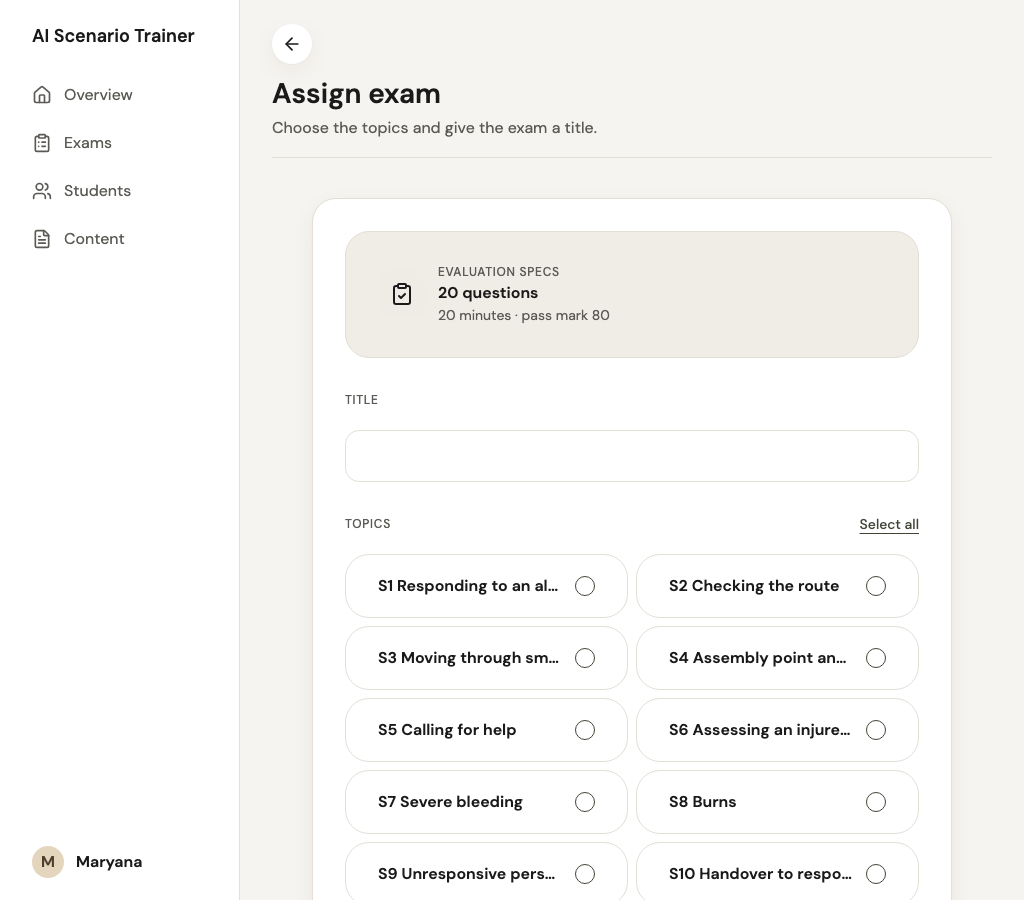
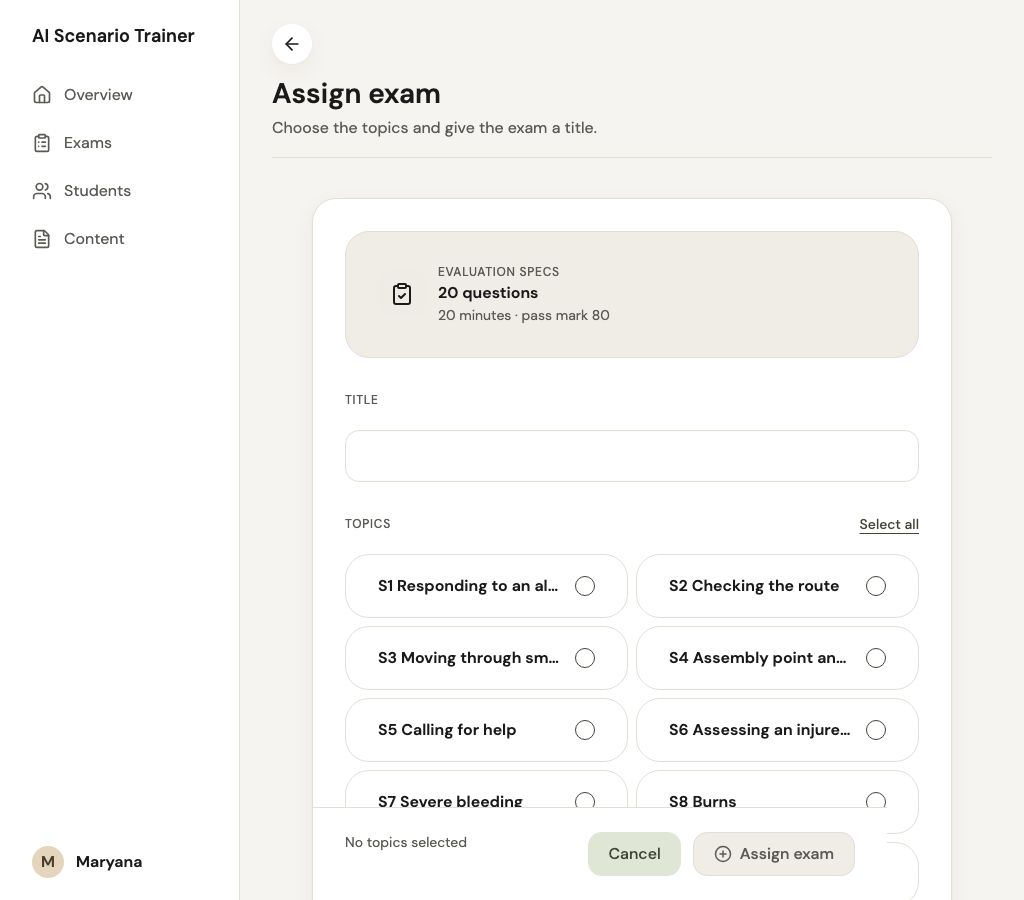
feat: preview frame scrolls inside a fixed height, row focus ring, extremes checks, step 7 docs and pictures

Changed region(s): [[0.5625, 0.9022, 0.8438, 0.9956], [0.3438, 0.9333, 0.5312, 0.9956]]

diff --git a/e2e/visual/extremes.spec.ts b/e2e/visual/extremes.spec.ts
@@ -1,0 +1,154 @@
+import { expect, test } from "@playwright/test";
+import type { Page } from "@playwright/test";
+import { prepare } from "./routes";
+
+/** Long names, long titles and 200 students (a test dataset that exists only here), DESIGN.md: Responsive instructor, step 7. */
+test.use({ reducedMotion: "reduce" });
+test.setTimeout(90_000);
+
+const LONG = "Alexandria-Wilhelmina Konstantinopolous-Featherstonehaugh";
+
+/** 200 local student accounts with long names, added to the signed-in instructor's browser. */
+async function withStudents(page: Page, count: number) {
+  await page.addInitScript(
+    ([n, long]) => {
+      const raw = localStorage.getItem("ast.auth.v1");
+      if (!raw) return;
+      const state = JSON.parse(raw);
+      if (state.value.accounts.length > 1) return;
+      for (let i = 0; i < Number(n); i++) {
+        state.value.accounts.push({
+          name: i % 3 === 0 ? `${long} ${i}` : `Student ${String(i).padStart(3, "0")}`,
+          email: `student${i}@example.org`,
+          role: "student",
+          createdAt: 2 + i,
+          onboardingDone: true,
+        });
+      }
+      localStorage.setItem("ast.auth.v1", JSON.stringify(state));
+    },
+    [String(count), LONG],
+  );
+}
+
+test.describe("200 students", () => {
+  for (const width of [1024, 1280, 1920]) {
+    test(`the Students table at ${width}px: no overflow, long names cut, sticky header`, async ({
+      page,
+    }) => {
+      await page.setViewportSize({ width, height: 900 });
+      await prepare(page, "instructor");
+      await withStudents(page, 200);
+      await page.goto("/instructor/students");
+      await page.locator("[data-students-table]").waitFor();
+      await expect(page.locator("[data-student-count]")).toContainText(/2\d\d students/);
+      const over = await page.evaluate(
+        () => document.documentElement.scrollWidth > document.documentElement.clientWidth,
+      );
+      expect(over).toBe(false);
+      const cut = await page.evaluate(() => {
+        const names = Array.from(
+          document.querySelectorAll<HTMLElement>("[data-table-link] span.truncate"),
+        );
+        const long = names.find((el) => el.textContent!.startsWith("Alexandria"));
+        if (!long) return null;
+        return {
+          scroll: long.scrollWidth,
+          client: long.clientWidth,
+          ellipsis: getComputedStyle(long).textOverflow,
+        };
+      });
+      expect(cut).not.toBeNull();
+      expect(cut!.ellipsis).toBe("ellipsis");
+      // the header row stays at the top of the window while the rows scroll under it
+      await page.mouse.wheel(0, 2000);
+      await page.waitForTimeout(300);
+      const th = await page.locator("[data-students-table] thead th").first().boundingBox();
+      expect(th!.y).toBeGreaterThanOrEqual(-1);
+      expect(th!.y).toBeLessThan(40);
+      const rows = await page.locator("[data-table-row]").count();
+      expect(rows).toBeGreaterThan(190);
+    });
+  }
+
+  test("the phone list with 200 students keeps its width at 430px", async ({ page }) => {
+    await page.setViewportSize({ width: 430, height: 900 });
+    await prepare(page, "instructor");
+    await withStudents(page, 200);
+    await page.goto("/instructor/students");
+    await page.locator("[data-student]").first().waitFor();
+    const over = await page.evaluate(
+      () => document.documentElement.scrollWidth > document.documentElement.clientWidth,
+    );
+    expect(over).toBe(false);
+  });
+
+  test("sorting 200 rows by name keeps the table intact", async ({ page }) => {
+    await page.setViewportSize({ width: 1280, height: 900 });
+    await prepare(page, "instructor");
+    await withStudents(page, 200);
+    await page.goto("/instructor/students");
+    await page.locator("[data-students-table]").waitFor();
+    await page
+      .locator("[data-students-table] thead th", { hasText: "STUDENT" })
+      .getByRole("button")
+      .click();
+    const names = (
+      await page.locator('[data-students-table] tbody th[scope="row"]').allInnerTexts()
+    ).map((text) => text.split("\n").pop()!.trim());
+    // the browser's own collation, the same one the table sorts with
+    const sorted = await page.evaluate(
+      (list) => [...list].sort((a, b) => a.localeCompare(b)),
+      names,
+    );
+    const at = names.findIndex((n, i) => n !== sorted[i]);
+    expect(
+      at < 0
+        ? "same"
+        : `${at}: ${JSON.stringify(names.slice(at, at + 3))} vs ${JSON.stringify(sorted.slice(at, at + 3))}`,
+    ).toBe("same");
+  });
+});
+
+test("a long exam title and a long topic name do not break the exam detail at 1280px", async ({
+  page,
+}) => {
+  await page.setViewportSize({ width: 1280, height: 900 });
+  await prepare(page, "instructor");
+  await page.addInitScript(
+    (title) => {
+      if (localStorage.getItem("ast.group-exams.v1")) return;
+      localStorage.setItem(
+        "ast.group-exams.v1",
+        JSON.stringify({
+          schema: 6,
+          value: [
+            {
+              id: "grp-long",
+              title,
+              topicIds: ["S1", "S2", "S3", "S4", "S5", "S6"],
+              groupIds: ["rescue-team"],
+              attemptsAllowed: 3,
+              questionCount: 20,
+              timeLimit: 20,
+              passMark: 80,
+              deadline: "2026-11-10",
+              createdAt: 1,
+              createdBy: "Instructor",
+            },
+          ],
+        }),
+      );
+    },
+    `Final comprehensive assessment of evacuation, first aid, communication and coordination ${"in a crisis ".repeat(6)}`,
+  );
+  for (const path of ["/instructor/exams", "/instructor/exams/grp-long"]) {
+    await page.goto(path);
+    await page.locator("main h1").waitFor();
+    await page.waitForTimeout(300);
+    const over = await page.evaluate(
+      () => document.documentElement.scrollWidth > document.documentElement.clientWidth,
+    );
+    expect(over, path).toBe(false);
+  }
+});

diff --git a/e2e/visual/desktop-screens.spec.ts b/e2e/visual/desktop-screens.spec.ts
@@ -273,6 +273,89 @@ for (const width of [1024, 1280, 1440, 1920]) {
   });
 }
 
+for (const width of [1100, 1600]) {
+  test(`intermediate widths, ${width}px`, async ({ page }) => {
+    await page.setViewportSize({ width, height: 900 });
+    await prepare(page, "instructor");
+    for (const [name, path, ready] of [
+      ["overview", "/instructor", "[data-weakest-topic]"],
+      ["exams", "/instructor/exams", "[data-exam-card]"],
+      ["exam-detail", "/instructor/exams/seed-active", "[data-tried]"],
+      ["students", "/instructor/students", "[data-students-table]"],
+      ["student-detail", "/instructor/students/stu-02", "[data-student-header]"],
+      ["course", "/instructor/content/course", "[data-built-in]"],
+    ] as const) {
+      await page.goto(path);
+      await page.locator(ready).first().waitFor();
+      await page.waitForTimeout(300);
+      await page.screenshot({
+        path: out(`instructor-width-${name}`, width),
+        animations: "disabled",
+      });
+    }
+  });
+}
+
+for (const width of [1280, 1920]) {
+  test(`focus, sticky footer and docked sheet, ${width}px`, async ({ page }) => {
+    await page.setViewportSize({ width, height: 900 });
+    await prepare(page, "instructor");
+    await page.goto("/instructor/exams");
+    await page.locator("[data-exam-card]").first().waitFor();
+    await page.locator("[data-exam-card]").first().focus();
+    await page.keyboard.press("Shift+Tab");
+    await page.keyboard.press("Tab");
+    await page.waitForTimeout(300);
+    await page.screenshot({ path: out("instructor-focus-card", width), animations: "disabled" });
+    await page.goto("/instructor/students");
+    await page.locator("[data-table-link]").first().waitFor();
+    await page.locator("[data-table-link]").nth(1).focus();
+    await page.keyboard.press("Shift+Tab");
+    await page.keyboard.press("Tab");
+    await page.waitForTimeout(300);
+    await page.screenshot({ path: out("instructor-focus-row", width), animations: "disabled" });
+    await page.locator("[data-side-nav] nav a", { hasText: "Exams" }).focus();
+    await page.keyboard.press("Shift+Tab");
+    await page.keyboard.press("Tab");
+    await page.waitForTimeout(300);
+    await page.screenshot({ path: out("instructor-focus-sidenav", width), animations: "disabled" });
+    await page.goto("/instructor/exams/new");
+    await page.getByLabel("Exam title").fill("Evacuation basics");
+    await page.getByText("S1 Responding to an alarm", { exact: true }).click();
+    await page.getByText("S3 Moving through smoke", { exact: true }).click();
+    await page.locator("[data-card-footer]").getByRole("button", { name: "Cancel" }).click();
+    await page.getByRole("dialog").waitFor();
+    await page.keyboard.press("Tab");
+    await page.waitForTimeout(300);
+    await page.screenshot({ path: out("instructor-focus-dialog", width), animations: "disabled" });
+    await page.keyboard.press("Escape");
+    await page.mouse.wheel(0, 300);
+    await page.waitForTimeout(300);
+    await page.screenshot({
+      path: out("instructor-assign-sticky-footer", width),
+      animations: "disabled",
+    });
+    await page.goto("/instructor/content/import");
+    await page.getByRole("button", { name: "Try an example" }).click();
+    await page.getByRole("button", { name: /^Import/ }).click();
+    await page.getByRole("heading", { name: "Draft is ready" }).waitFor({ timeout: 20000 });
+    await page.getByRole("button", { name: "Open draft" }).click();
+    await page.locator("[data-tab-bar]").waitFor();
+    await page.goto(page.url().replace(/\?.*$/, "") + "/preview/quiz");
+    const frame = page.locator("[data-phone-frame]");
+    await frame.waitFor();
+    await page.waitForTimeout(500);
+    await frame.getByText("Find the two nearest exits").click();
+    await frame.getByRole("button", { name: "Check" }).click();
+    await page.locator(".bottom-sheet").first().waitFor();
+    await page.waitForTimeout(500);
+    await page.screenshot({
+      path: out("instructor-preview-feedback-sheet", width),
+      animations: "disabled",
+    });
+  });
+}
+
 test.describe("dialog and notice at 1280px", () => {
   test.use({ viewport: { width: 1280, height: 900 } });
   test("dialog and floating notice", async ({ page }) => {

diff --git a/components/PreviewFrame/PreviewFrame.tsx b/components/PreviewFrame/PreviewFrame.tsx
@@ -17,11 +17,14 @@ export function PreviewFrame({ children }: { children: ReactNode }) {
     <FrameBarContext.Provider value={slot}>
       <div
         data-phone-frame
-        className="contents idesk:mx-auto idesk:block idesk:w-full idesk:max-w-[430px] idesk:overflow-clip idesk:rounded-[24px] idesk:border idesk:border-selectable-stroke idesk:bg-bg idesk:px-4 idesk:pt-6 idesk:min-h-[720px] idesk:transform-gpu idesk:shadow-(--card-shadow) idesk:[--gutter:1rem]"
+        className="contents idesk:mx-auto idesk:flex idesk:h-[calc(100dvh-7.5rem)] idesk:min-h-[640px] idesk:w-full idesk:max-w-[430px] idesk:flex-col idesk:overflow-clip idesk:rounded-[24px] idesk:border idesk:border-selectable-stroke idesk:bg-bg idesk:transform-gpu idesk:shadow-(--card-shadow) idesk:[--gutter:1rem]"
       >
-        {children}
+        {/* the screen scrolls inside the frame like on a phone; the pinned bar stays under it */}
+        <div className="contents desk:block desk:min-h-0 desk:flex-1 desk:overflow-y-auto desk:px-4 desk:pt-6 desk:pb-4">
+          {children}
+        </div>
         {/* plain `desk:` here: the instructor variant is switched off inside the frame */}
-        <div ref={setSlot} data-frame-bar className="-mx-4 hidden desk:block desk:empty:h-4" />
+        <div ref={setSlot} data-frame-bar className="hidden desk:block desk:empty:hidden" />
       </div>
     </FrameBarContext.Provider>
   );

diff --git a/components/DataTable/DataTable.tsx b/components/DataTable/DataTable.tsx
@@ -143,7 +143,7 @@ export function DataTable<T extends TableRow>({
             <tr
               key={row.id}
               data-table-row={row.id}
-              className={`relative h-16 ${row.href ? "hover:bg-bg has-[a:focus-visible]:outline-2 has-[a:focus-visible]:-outline-offset-2 has-[a:focus-visible]:outline-primary" : ""}`}
+              className={`relative h-16 ${row.href ? "hover:bg-bg has-[a:focus-visible]:outline-2 has-[a:focus-visible]:-outline-offset-2 has-[a:focus-visible]:outline-(--accent)" : ""}`}
             >
               <th scope="row" className="px-6 py-2 text-left font-normal">
                 {(() => {
@@ -165,7 +165,7 @@ export function DataTable<T extends TableRow>({
                     <Link
                       href={row.href}
                       data-table-link={row.id}
-                      className="flex min-w-0 items-center gap-3 outline-none after:absolute after:inset-0 after:content-['']"
+                      className="flex min-w-0 items-center gap-3 focus-visible:outline-none! after:absolute after:inset-0 after:content-['']"
                     >
                       {content}
                     </Link>

diff --git a/app/screens/page.tsx b/app/screens/page.tsx
@@ -121,6 +121,12 @@ const desktopPictures = [
   ["instructor-profile", "Profile"],
   ["instructor-profile-edit", "Edit profile"],
   ["instructor-preview-framed", "Preview as student (bar inside the frame)"],
+  ["instructor-assign-sticky-footer", "Assign exam, sticky footer with summary"],
+  ["instructor-focus-card", "Focus on a card"],
+  ["instructor-focus-row", "Focus on a table row"],
+  ["instructor-focus-sidenav", "Focus in the side navigation"],
+  ["instructor-focus-dialog", "Focus in a dialog"],
+  ["instructor-preview-feedback-sheet", "Preview: feedback sheet docked in the frame"],
   ["instructor-dialog", "A dialog"],
   ["instructor-notice", "The floating notice under the header"],
 ] as const;

diff --git a/e2e/visual/desktop-content.spec.ts b/e2e/visual/desktop-content.spec.ts
@@ -133,6 +133,7 @@ test.describe("One-card flows", () => {
   }) => {
     await start(page, 1280, "/instructor/content/import");
     await page.getByRole("button", { name: "Try an example" }).click();
+    await page.locator("[data-file-card]").waitFor();
     const footer = page.locator("[data-card-footer]").first();
     await expect(footer.getByRole("button", { name: "Import and review" })).toBeVisible();
     const cancel = await footer.getByRole("button", { name: "Cancel" }).boundingBox();

diff --git a/DESIGN.md b/DESIGN.md
@@ -1159,3 +1159,14 @@ The values below are read from `app/globals.css`. When a brief or an older note 
 - Profile (instructor shell): a column of at most 720px with the same rows as the phone, the Demo mode control 320px wide; Edit profile fields at most 560px with Save at its natural width; About at most 720px. The instructor's Profile shows no student-only rows (Field of work, Certificates, Direction).
 - Preview as student: the student's pinned bar (Check, Next) is drawn at the bottom INSIDE the framed phone (`PreviewFrame`; the bar is portalled into the frame's own slot and the window's copy is hidden from 1024px); the step strip centres its current square again when its width changes, so the first number is never clipped.
 - Question table: no Type column (every question is a single-choice question), the question text may take two lines and that column takes the most room.
+
+## Responsive instructor, step 7: polish, keyboard and accessibility (3 Nov 2026)
+- Assign exam: the card footer is sticky (it stays at the bottom of the window while the long card scrolls, inside the card's width) and carries a live summary at its left in muted text ("No topics selected", "3 topics · 20 questions", an `aria-live` region), then Cancel (Secondary) and the Primary at the right. Desktop only; the phone keeps its pinned bar.
+- Accessibility audit: `e2e/visual/a11y.spec.ts` runs axe-core (the `axe-core` package, 4.14.0, a dev dependency that was already installed indirectly by the linter) on every instructor route at 1280px and 430px and on the open states (the status menu, a confirm dialog, the Assign exam card with its discard dialog, the preview frame); the bar is no serious or critical violation. The same spec checks that a screen has ONE of each copy in the accessibility tree (one visible h1 and main, unique ids, no repeated visible headings, exactly one side navigation with a label and one banner from 1024px, none below) and that every page has a title.
+- Landmarks and titles: the side navigation is a `header` (banner) with a labelled `nav` ("Instructor"); the skip link is first in the tab order; the active item has `aria-current="page"`; every page sets "<page> · AI Scenario Trainer" (`RouteTitle`, `lib/route-title.ts`: the main pages by name, the others by their heading).
+- Headings: a card that repeats the page title is not a heading (the student's name card on the student detail, the exam title card of a closed exam), and the instructor's question screen has one h1 (the question text is an h2 there); confirm dialogs have their own title ids.
+- Keyboard: `e2e/visual/keyboard.spec.ts` tabs through ten instructor screens (skip link, side navigation, header actions, content, no trap, every stop has a ring of at least 3:1 against white and the page) and runs the Students sort, filter menu and row, the topic tabs, question edit and Save, Assign exam with its discard dialog and Invite students with the keyboard only.
+- Hover, focus, active: cards that are links (border and soft shadow), rows (sand fill), the side navigation and the tabs (sand fill), buttons (their pressed colours on hover from 1024px in the instructor shell, an underline of 2px for tertiary actions, the pointer cursor; a disabled button keeps its disabled look on hover and shows `not-allowed`). The focus ring is the accent ring everywhere; the table row shows the same ring (not a second one on its link). With `prefers-reduced-motion` no control animates.
+- Zoom and widths: nothing overflows at 640, 960, 1152 and 1600px as well as the earlier widths (312 checks), and a 22px root font size keeps the side navigation labels whole.
+- Preview as student: the framed phone has a fixed height (the window minus 7.5rem, at least 640px); the student screen scrolls inside it, its pinned bar stays under it, and the feedback and hint sheets are docked inside the frame (the frame is their containing block), so nothing is positioned against the window. Confirm dialogs are native modal dialogs and still open centred in the window.
+- Extremes: with 200 students (a test dataset) the table keeps its width, long names are cut with an ellipsis, the header row is sticky and sorting works.
